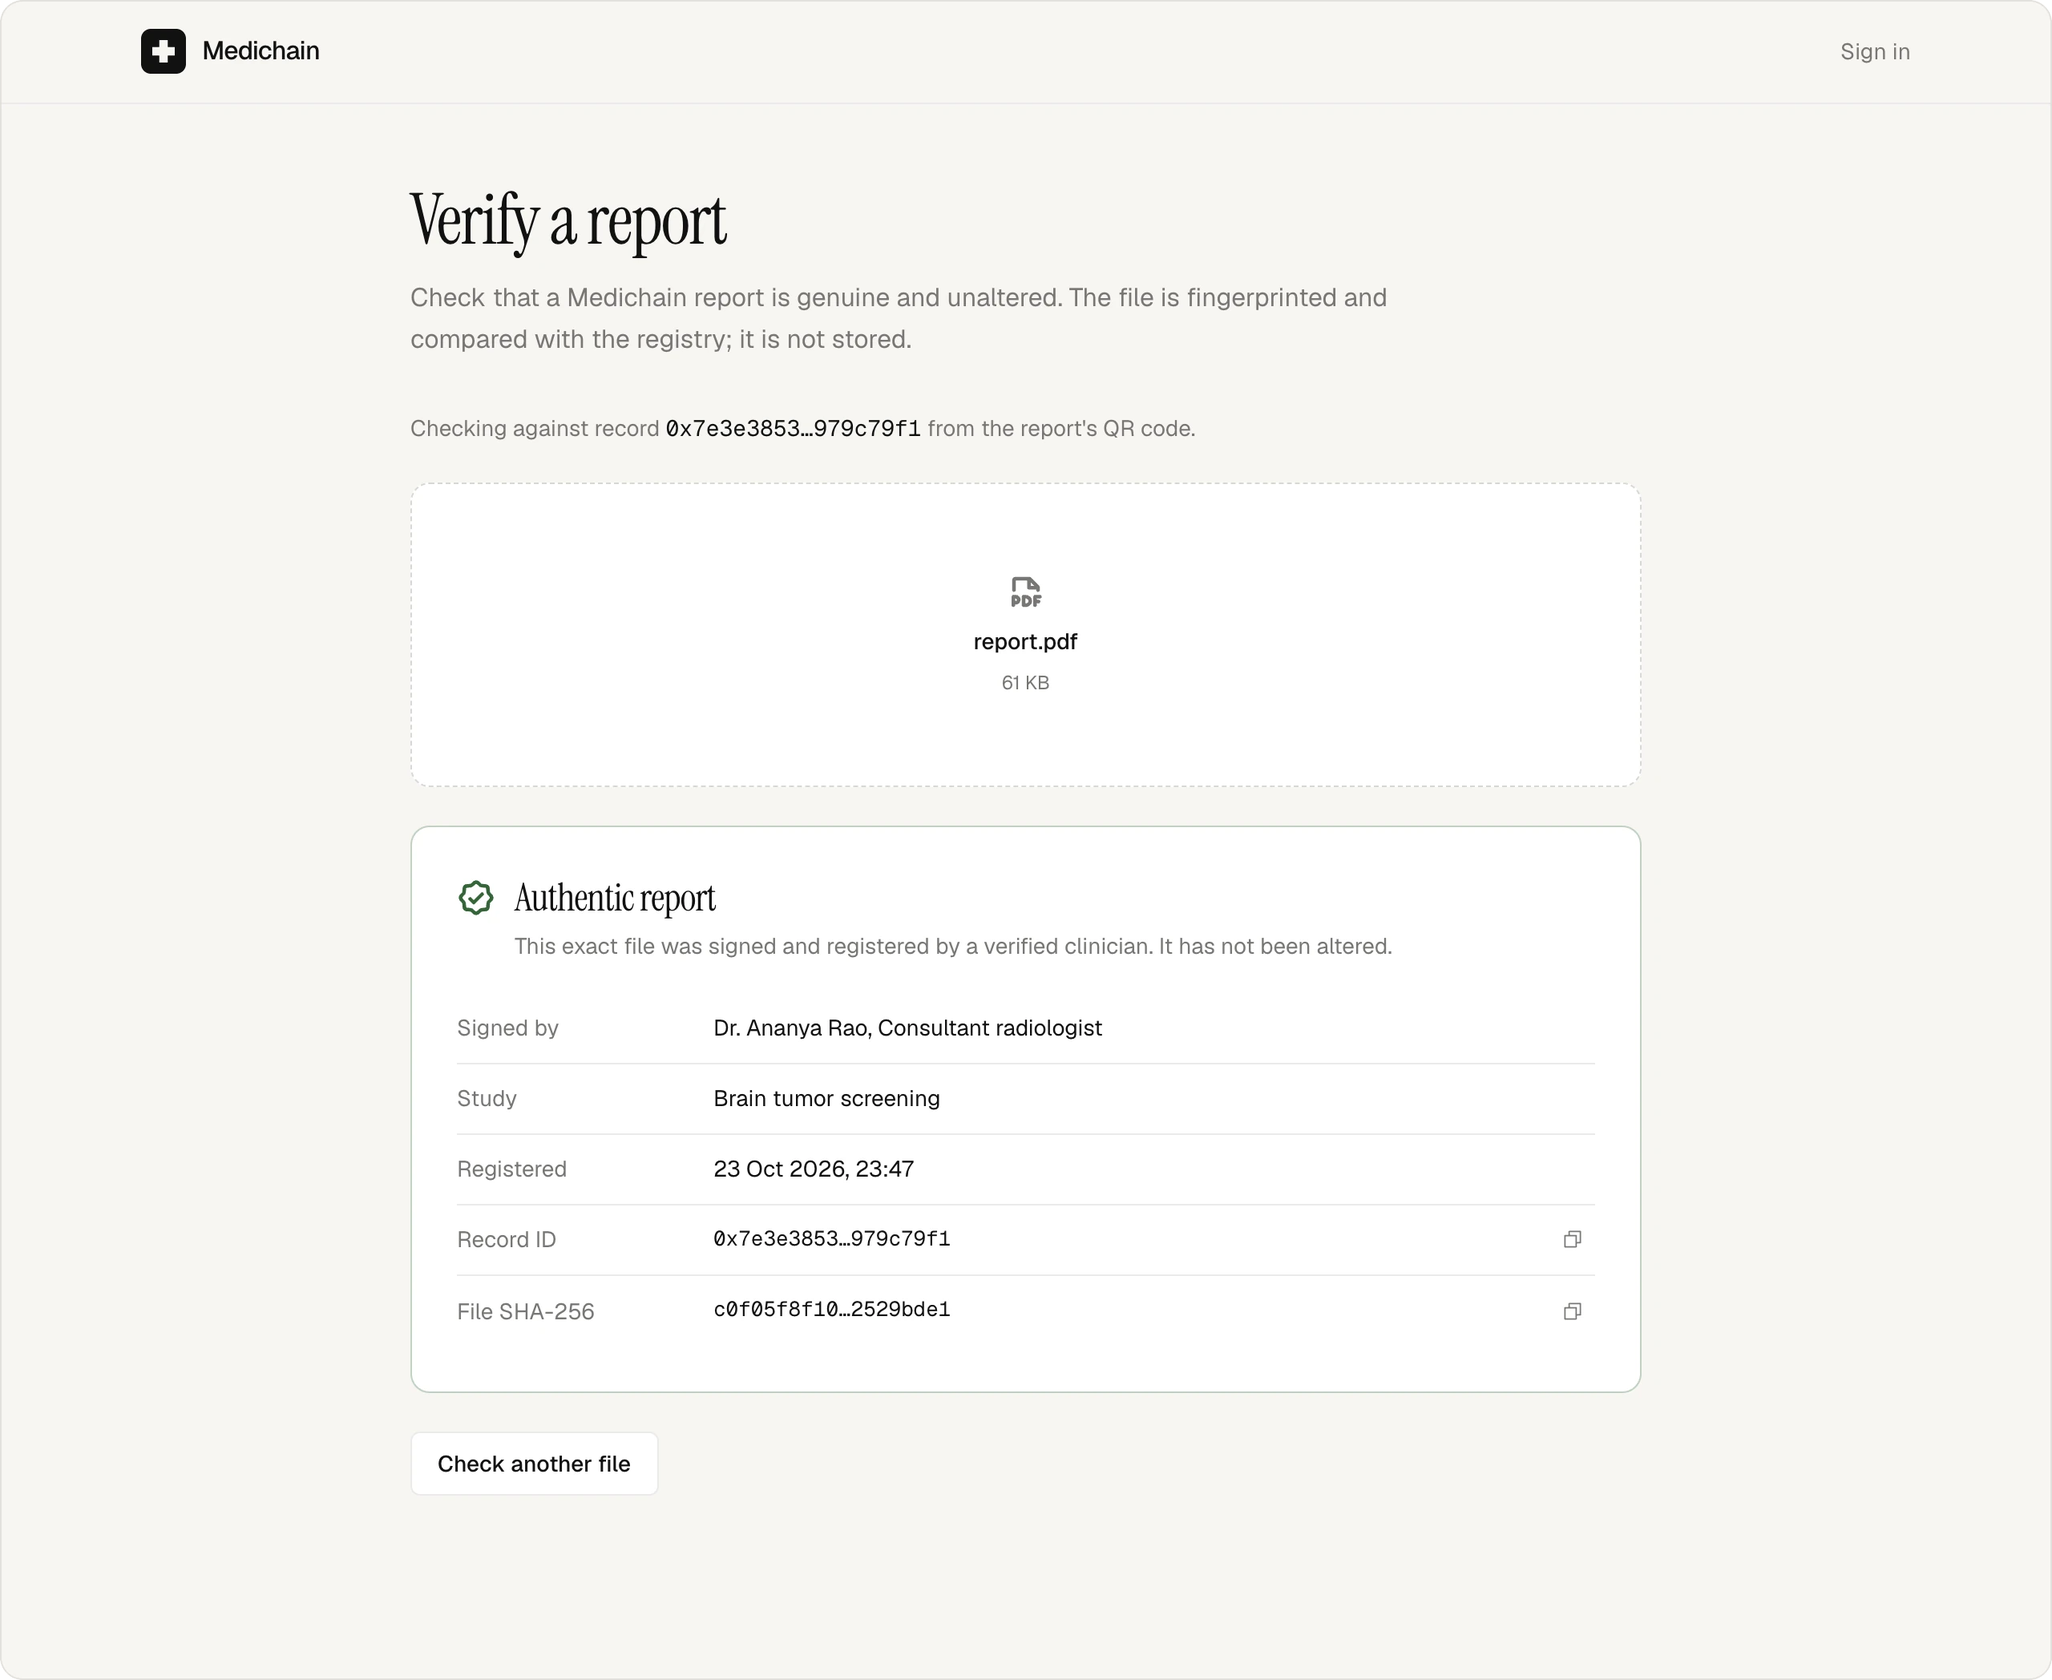
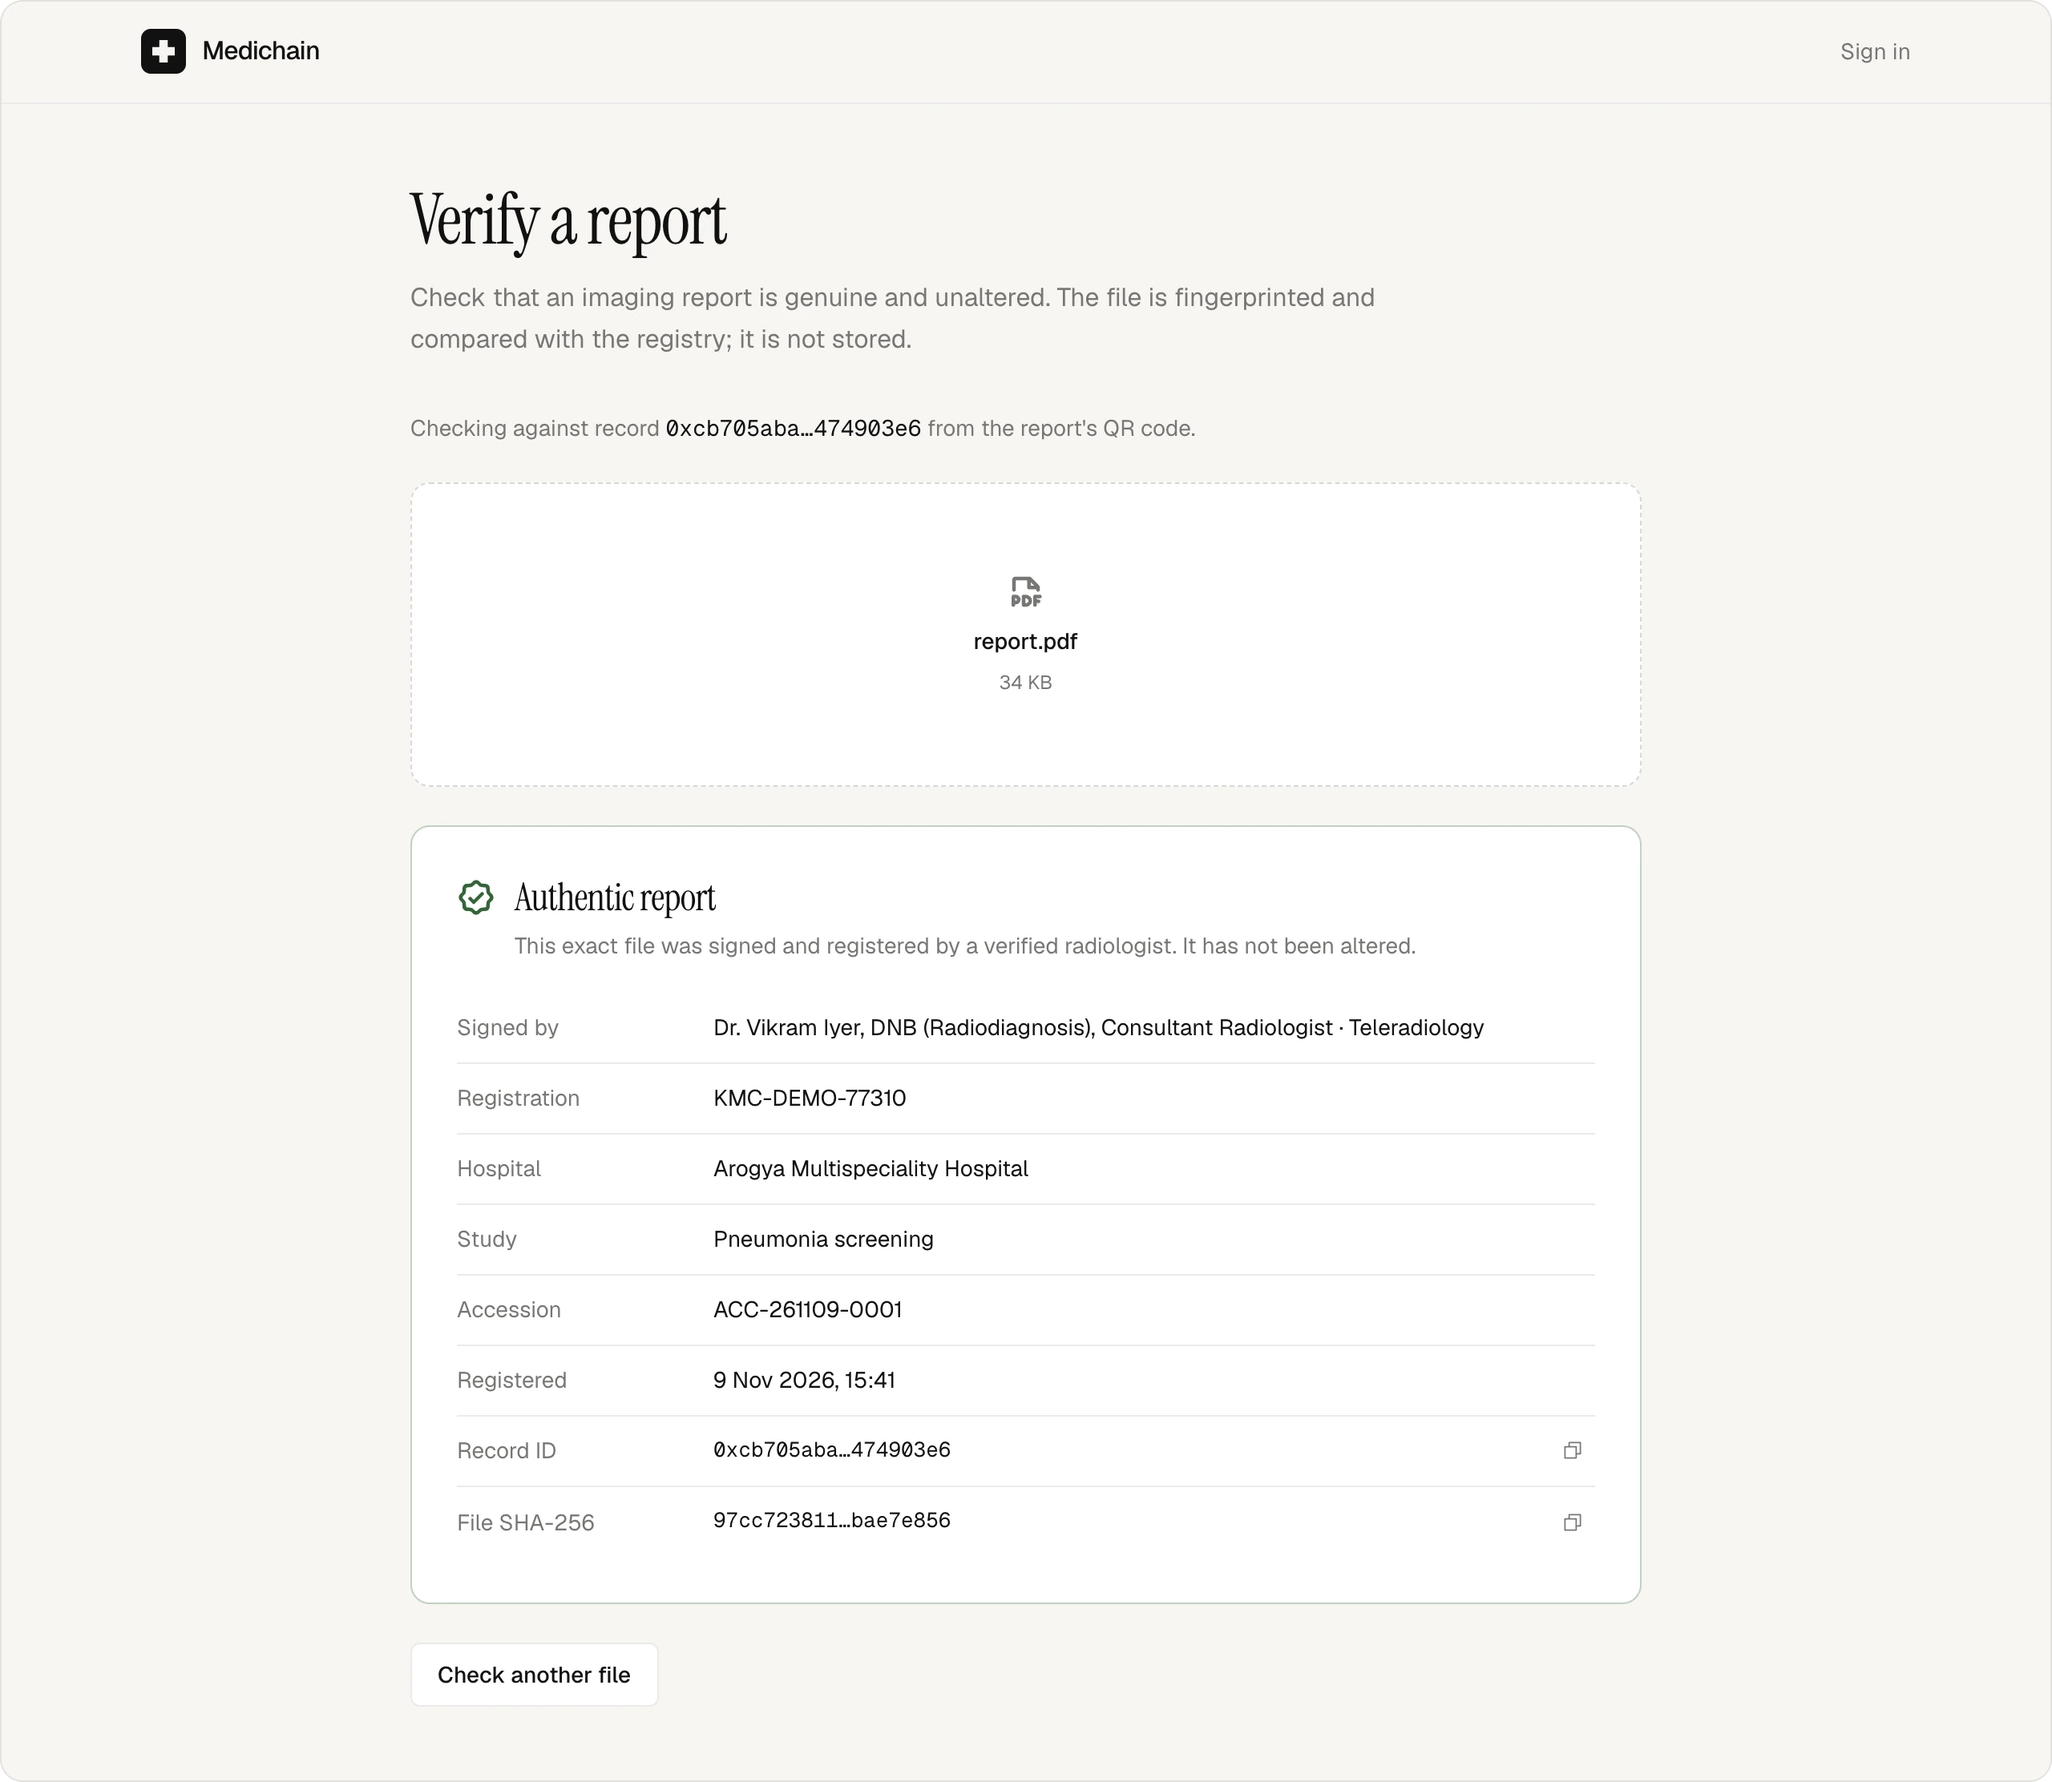
docs: hospital README, demo guide and hosted-demo guide

diff --git a/docs/demo-guide.md b/docs/demo-guide.md
@@ -1,0 +1,126 @@
+# Demo guide
+
+A ten-minute walkthrough of Medichain for a hospital, imaging centre or teleradiology client, with
+what to click, what to say, and straight answers to the questions buyers ask.
+
+## Before the meeting
+
+1. Start the demo: `make demo`, then open <http://localhost:3000>. To use the hosted copy instead,
+   see [hosted-demo.md](hosted-demo.md). Every start is a fresh workspace, so restart it to reset.
+2. Optional: rebrand it for the client. Sign in as **Neha Kapoor** (admin), open **Settings**, and
+   set their name, address and accreditation. New reports carry their letterhead.
+3. Check the worklist has a **STAT** chest X-ray at the top (it is always seeded).
+4. On the hosted demo, keep a phone ready to scan a report's QR code. On a laptop, the QR code
+   points at `localhost`, so verify by uploading the PDF instead.
+
+Switch roles with **Switch role** in the bar at the bottom of the screen. No passwords are needed.
+
+## The storyline
+
+### 1. The problem, in one sentence (landing page, 30 seconds)
+
+> "Reports are slow to reach doctors, patients carry paper copies anyone can edit, and nobody can
+> see turnaround until someone complains. Medichain fixes all three."
+
+Point at the three ways to work: hospital, imaging centre, teleradiology.
+
+### 2. The front desk (Rahul Verma, technician, 2 minutes)
+
+1. **Today** shows what has come in and what is waiting.
+2. **New study**, then **Register a new patient**: name, sex, age, optional mobile and ABHA number.
+   A UHID is issued automatically.
+3. Choose **Chest X-ray**, priority **Urgent**, referring doctor **Dr. Arjun Mehta**, and a short
+   indication. Click the **Pneumonia** sample scan, then **Send for reporting**.
+
+> "The AI pre-read ran while we watched. The study is already on the radiologists' worklist."
+
+### 3. Reporting (Dr. Ananya Rao, radiologist, 3 minutes)
+
+1. The **worklist** puts STAT first, then the longest waiting. Waiting times turn amber, then red,
+   as they approach their target.
+2. Open your new study. Show the scan, the AI's attention heatmap and its confidence.
+3. **Start from the pneumonia template**, edit a word, tick the attestation, and
+   **Sign and deliver report**.
+4. **Open report (PDF)**: hospital letterhead, UHID, accession, referring doctor, the radiologist's
+   registration number and a QR code.
+
+> "AI suggests, the radiologist decides. Nothing reaches a patient without a signature."
+
+Optional, and memorable: open the **Lotus Clinic** chest X-ray for Rohit Bansal. The AI says
+pneumonia; the film is normal. Choose **Normal** and sign. The report records that the radiologist
+overrode the AI.
+
+### 4. The referring doctor (Dr. Arjun Mehta, 1 minute)
+
+**Reports** shows the report you just signed, already there. Critical findings sit at the top.
+
+> "No phone calls, no courier, no WhatsApp photo of a printout."
+
+### 5. The patient (Priya Sharma, 1 minute)
+
+1. **Records**: her reports, in plain language.
+2. **Sharing**: share her records with another doctor in one click, and withdraw it as easily.
+3. **Activity**: who opened her reports, and when.
+
+> "Consent the patient controls, as the DPDP Act expects."
+
+### 6. Verification (anyone, 1 minute)
+
+Open **Verify a report** (no sign-in) and upload the PDF you downloaded: **Authentic report**, with
+the radiologist, hospital and accession. Then upload any other PDF: **No matching report**.
+
+> "A forged or edited report fails this check. Insurers, other hospitals and courts can verify a
+> report without calling you."
+
+### 7. Management (Neha Kapoor, admin, 2 minutes)
+
+1. **Dashboard**: studies today, median turnaround, share within target, AI agreement, critical
+   findings, and the load per site and per radiologist. Point at the three sites: in-house
+   radiology, the imaging centre and the partner clinic reported remotely.
+2. **Staff**: radiologists and doctors are verified on the registry when added. Deactivating one
+   ends their access to every record at once.
+3. **Audit log**: every sign-in, report, view and consent change.
+
+## What to emphasise for each kind of client
+
+| Client | Lead with |
+| --- | --- |
+| Hospital | One worklist for every department, reports in doctors' hands the moment they are signed, turnaround visible to management. |
+| Imaging centre | Fast walk-in registration, reports for outside doctors without phone calls, and verifiable reports patients can share anywhere. |
+| Teleradiology | Partner sites upload, remote radiologists report, and turnaround is tracked per site against each client's targets. |
+
+## Questions clients ask
+
+**Is the AI approved for clinical use?**
+No, and we say so. The models are decision support, and every report is signed by a radiologist.
+Before clinical use the models need validation on the client's own data, and an AI that informs
+diagnosis may need clearance under India's medical device rules (CDSCO). A pilot is the right
+first step.
+
+**Does it work with our PACS and HIS?**
+Today scans are uploaded as images. DICOM import and PACS, HL7 and FHIR integration are the first
+items on the pilot plan, scoped to the client's systems.
+
+**Where is our data stored?**
+Scans and reports are encrypted before storage, on a server in an Indian cloud region or on the
+client's own premises. Only fingerprints and consent records go on the ledger, never names,
+images or reports.
+
+**Why a blockchain, and what does it cost?**
+It is a tamper-evident ledger for two things: report fingerprints, so a report can be verified,
+and patient consent, so access is provable. It holds no patient data. For a client it runs as a
+private network with no per-transaction fees.
+
+**Is it ABDM-compliant?**
+ABHA numbers are captured today. Integrating as an ABDM health information provider is on the
+roadmap and requires certification.
+
+**What does it cost?**
+Fill in your own pricing model here: per study, per site per month, or a pilot fee.
+
+## If something goes wrong
+
+- **The page is slow on the first click:** the AI models load on first use. Give it a few seconds.
+- **The demo got messy:** restart it; every start is a clean workspace.
+- **The hosted demo shows "Building" or "Sleeping":** it wakes on the first visit, which takes a
+  few minutes. Open it before the meeting.

diff --git a/docs/hosted-demo.md b/docs/hosted-demo.md
@@ -1,0 +1,45 @@
+# Hosted demo (free)
+
+Run the demo at a public link a client can open, on Hugging Face Spaces' free tier. The free CPU
+tier (2 vCPU, 16 GB RAM) runs both AI models comfortably; most free hosting tiers have far too
+little memory for them.
+
+## Set it up
+
+1. Make sure this repository is public and the demo files are on `main`
+   (`Dockerfile`, `deploy/demo/` and `deploy/huggingface/`).
+2. Create a free account at [huggingface.co](https://huggingface.co).
+3. Create a Space: **New Space**, name it (for example `medichain-demo`), choose **Docker** with
+   the **Blank** template, **CPU basic (free)** hardware and **Public** visibility.
+4. Add the two files from `deploy/huggingface/` to the Space, either with **Files → Add file →
+   Upload files** in the browser, or with git:
+
+   ```bash
+   git clone https://huggingface.co/spaces/<your-username>/medichain-demo
+   cp deploy/huggingface/Dockerfile deploy/huggingface/README.md medichain-demo/
+   cd medichain-demo && git add . && git commit -m "Add Medichain demo" && git push
+   ```
+
+5. The Space builds the image from the GitHub repository. The first build takes about 15 to 20
+   minutes; later restarts take a few minutes, mostly seeding the demo data.
+6. Share the direct link, `https://<your-username>-medichain-demo.hf.space`. Sign-in uses a
+   cookie, which browsers block inside the frame on the Space's own page.
+
+## How it behaves
+
+- **Every restart is a clean workspace** with new keys and a freshly generated month of history.
+  Use **Settings → Factory reboot** to reset it, or to rebuild from the latest `main`.
+- **It sleeps when idle.** A free Space pauses after a period without visitors and wakes on the
+  next visit, which takes a few minutes. Open it before a meeting.
+- **It is public.** Anyone with the link can use the demo accounts. The data is fictional and
+  temporary, but don't upload real patient images.
+- To pin a version, set `ARG MEDICHAIN_REF` in the Space's `Dockerfile` to a tag such as `v0.4.0`.
+
+## Other options
+
+- **Your laptop:** `make demo` runs the same image at <http://localhost:3000>. This is the most
+  reliable option in a meeting room.
+- **An always-on free server:** Oracle Cloud's Always Free tier includes an Arm VM with 24 GB of
+  memory. Install Docker, then `docker build -t medichain-demo . && docker run -d -p 80:7860
+  -e PUBLIC_APP_URL=http://<server-address> medichain-demo`. Put HTTPS in front of it before
+  sharing the link.

diff --git a/SECURITY.md b/SECURITY.md
@@ -17,7 +17,7 @@ authorization, custodial keys, encryption at rest and request hardening.
 | --- | --- | --- |
 | `ENCRYPTION_KEY` | `backend/.env` | Stored scans and reports can be decrypted by whoever also has the ciphertext. Rotate and re-encrypt. |
 | `WALLET_ENCRYPTION_KEY` | `backend/.env` | Users' wallet keys can be unsealed from a database copy. Rotate, re-seal, and move consents to new keys. |
-| `OPERATOR_PRIVATE_KEY` | `backend/.env` | Anyone can verify or remove clinicians on the registry. Transfer contract ownership (`transferOwnership` + `acceptOwnership`) to a new key. |
+| `OPERATOR_PRIVATE_KEY` | `backend/.env` | Anyone can verify or remove radiologists and doctors on the registry. Transfer contract ownership (`transferOwnership` + `acceptOwnership`) to a new key. |
 | `PINATA_JWT` | `backend/.env` | Revoke it in the Pinata dashboard and create a new one. |
 | Database | `DATABASE_URL` | Holds sealed keys, sessions (hashed) and clinical text. Encrypt it at rest and restrict access. |
 | Deployer key | Hardhat keystore | Only deploys. Keep it separate from the operator key in production. |
